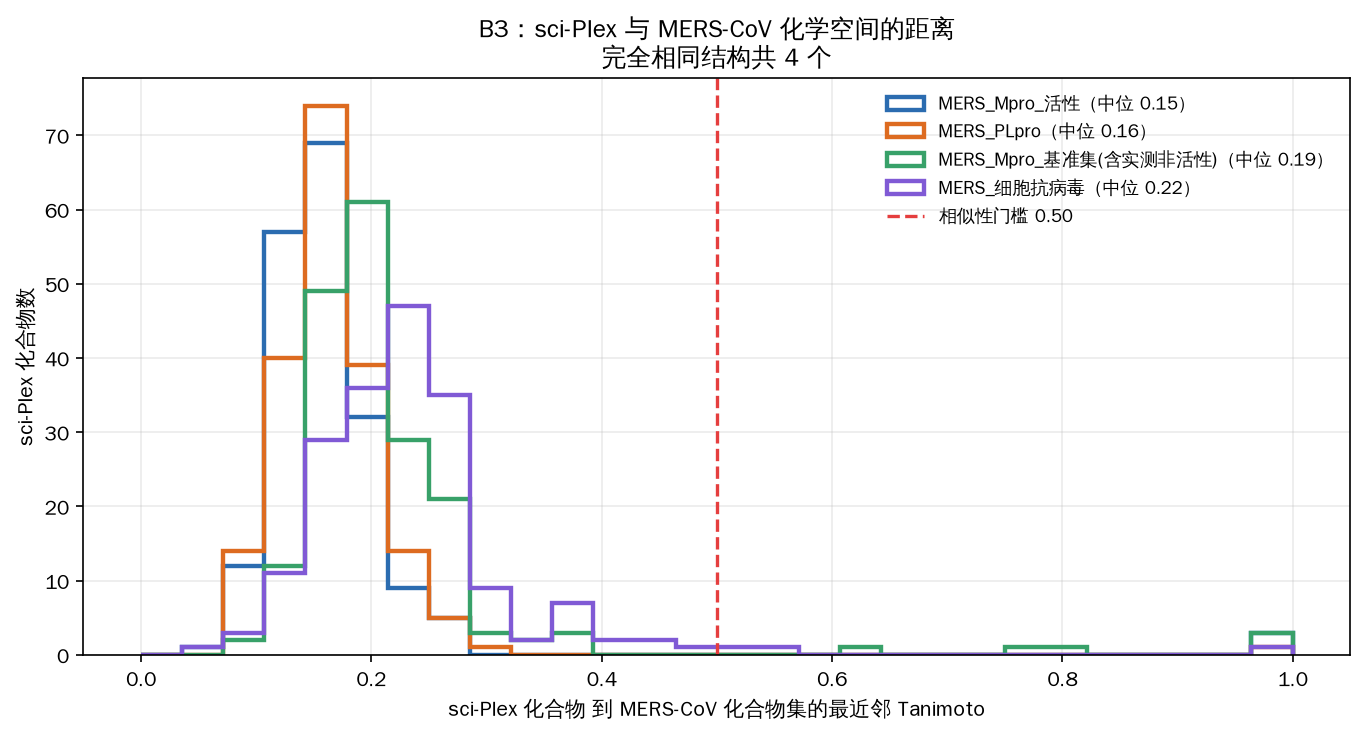
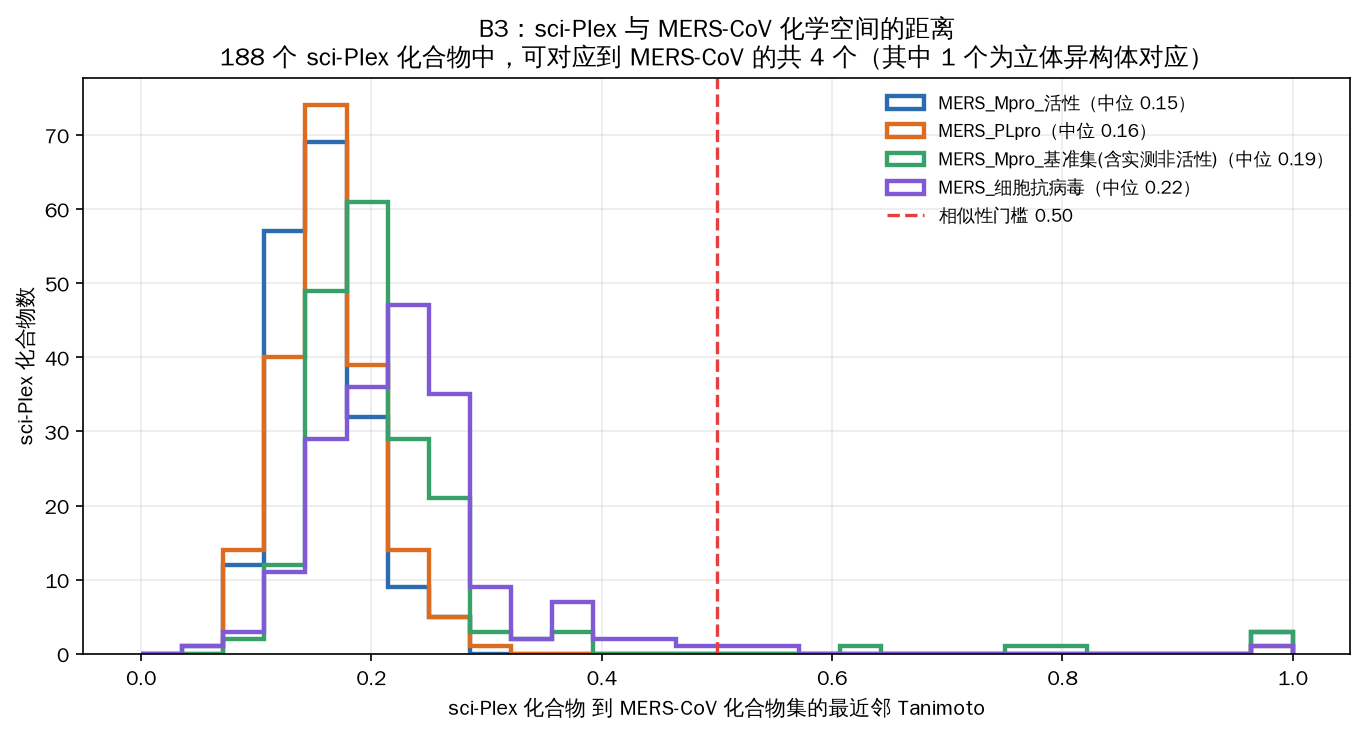
Add PLpro qualitative docking module and correct B3 figure caption
The B3 caption called all four matches identical structures when one is a
stereoisomer correspondence (racemic ofloxacin against the single enantiomer).

a8_plpro docks the nine PLpro compounds into apo 4RNA and correlates the
scores against measured potency, which is the qualitative comparison the plan
scopes for PLpro. It reports the bootstrap CI precisely so the n=9 width is
visible rather than hidden behind a point estimate.

Claude-Session: https://claude.ai/code/session_01DQ3cf55dSfUFYtrVQpn6B4

diff --git a/mers_pipeline/a8_plpro.py b/mers_pipeline/a8_plpro.py
@@ -1,0 +1,140 @@
+"""A8 —— PLpro 对接与文献 IC50 的定性对照。
+
+方案对 PLpro 的定位：「数据量过小（~20 IC50），不训练 ML 模型，仅做对接 +
+与文献 IC50 的定性对照」。本模块执行这一项。
+
+必须同时声明的两个前提
+----------------------
+1. **PLpro 没有 redock 验证**（见 A3）：4RF1/4RF0 是 PLpro–泛素复合物，
+   唯一非溶剂小分子 3CN 只有 4 个重原子；4RNA 是 apo。因此位姿与打分的
+   可信度显著低于 Mpro（而 Mpro 本身的 redock 也未通过 2 Å 门槛）。
+2. **n = 9**：任何相关系数的置信区间都会宽到几乎不含信息。本模块照样把
+   CI 算出来，正是为了让这一点显式可见，而不是只报一个点估计。
+
+产出：results/trackA/a8_plpro.json, figures/mers/a8_plpro.png
+"""
+from __future__ import annotations
+
+import json
+
+import numpy as np
+import pandas as pd
+from scipy import stats
+
+from .a5_docking import screen
+from .config import FIGS, RANDOM_SEED, RES_A, log, setup_cjk_fonts
+
+
+def spearman_ci(x, y, n_boot=10000, seed=RANDOM_SEED):
+    rng = np.random.default_rng(seed)
+    x, y = np.asarray(x, float), np.asarray(y, float)
+    pt = stats.spearmanr(x, y).statistic
+    vals = []
+    for _ in range(n_boot):
+        i = rng.integers(0, len(x), len(x))
+        if len(np.unique(x[i])) < 3 or len(np.unique(y[i])) < 3:
+            continue
+        v = stats.spearmanr(x[i], y[i]).statistic
+        if np.isfinite(v):
+            vals.append(v)
+    return float(pt), float(np.percentile(vals, 2.5)), float(np.percentile(vals, 97.5))
+
+
+def main(exhaustiveness: int = 16) -> dict:
+    d = pd.read_csv(RES_A / "mers_plpro_ic50.csv")
+    log(f"PLpro 化合物 {len(d)} 个（IC50/Kd），对接到 4RNA (apo)")
+
+    dk = screen(d, "PLPRO_4RNA", exhaustiveness)
+    dk.to_csv(RES_A / "docking_scores_plpro_4rna.csv", index=False)
+
+    ok = dk[dk["best_affinity"].notna()].copy()
+    log(f"成功对接 {len(ok)}/{len(dk)}")
+    if len(ok) < 4:
+        out = {"error": f"成功对接的化合物只有 {len(ok)} 个，无法做对照"}
+        (RES_A / "a8_plpro.json").write_text(json.dumps(out, indent=2, ensure_ascii=False))
+        return out
+
+    # Vina 亲和力越负越好；pActivity 越大越好 -> 预期负相关
+    sp, lo, hi = spearman_ci(ok["best_affinity"], ok["pActivity"])
+    pe = stats.pearsonr(ok["best_affinity"], ok["pActivity"])
+    log(f"对接亲和力 vs 实测 pActivity: Spearman={sp:+.3f} 95%CI [{lo:+.3f}, {hi:+.3f}]")
+    log(f"  Pearson={pe.statistic:+.3f} p={pe.pvalue:.3f}")
+    log(f"  亲和力范围 {ok['best_affinity'].min():.2f} 到 {ok['best_affinity'].max():.2f} kcal/mol"
+        f"（跨度仅 {ok['best_affinity'].max()-ok['best_affinity'].min():.2f}）")
+    log(f"  实测 pActivity 范围 {ok['pActivity'].min():.2f} 到 {ok['pActivity'].max():.2f}")
+
+    out = {
+        "receptor": "PLPRO_4RNA (4RNA, 1.79 Å, apo)",
+        "n_compounds": int(len(ok)),
+        "docking_affinity_kcal_mol": {
+            "min": round(float(ok["best_affinity"].min()), 2),
+            "max": round(float(ok["best_affinity"].max()), 2),
+            "median": round(float(ok["best_affinity"].median()), 2),
+            "span": round(float(ok["best_affinity"].max() - ok["best_affinity"].min()), 2),
+        },
+        "measured_pActivity": {
+            "min": round(float(ok["pActivity"].min()), 2),
+            "max": round(float(ok["pActivity"].max()), 2),
+            "span": round(float(ok["pActivity"].max() - ok["pActivity"].min()), 2),
+        },
+        "docking_vs_measured": {
+            "spearman": round(sp, 3), "spearman_ci95": [round(lo, 3), round(hi, 3)],
+            "pearson": round(float(pe.statistic), 3), "pearson_p": round(float(pe.pvalue), 4),
+            "expected_sign": "负（亲和力越负 = 结合越强 = pActivity 越大）",
+        },
+        "per_compound": ok[["molecule_chembl_id", "pActivity", "value_nM",
+                            "best_affinity", "standard_type"]]
+                        .round(3).to_dict("records"),
+        "caveats": [
+            "PLpro 没有 redock 验证（4RF1/4RF0 为 PLpro–泛素复合物，3CN 仅 4 个重原子；"
+            "4RNA 为 apo），位姿与打分可信度显著低于 Mpro。",
+            f"n={len(ok)}，Spearman 的 95% CI 宽度为 {hi-lo:.2f} —— 这个区间几乎覆盖了"
+            f"相关系数的全部可能取值，因此该点估计不构成任何证据。",
+            "对接亲和力的动态范围本身很窄，而 Vina 打分误差约 2–3 kcal/mol，"
+            "二者同量级时打分无法区分化合物。",
+            "受体为 apo 结构，未建模配体诱导的 BL2 环构象变化。",
+        ],
+        "verdict": (
+            f"对接分数与实测效力的 Spearman = {sp:+.3f}，95% CI [{lo:+.3f}, {hi:+.3f}]。"
+            f"区间跨过 0 且几乎覆盖全域，**无法据此判断对接是否捕捉到了 PLpro 的构效关系**。"
+            f"这与方案对 PLpro 的预期一致（数据量过小、富集统计功效弱），"
+            f"结果按定性/探索性呈现。"
+        ),
+    }
+    (RES_A / "a8_plpro.json").write_text(json.dumps(out, indent=2, ensure_ascii=False))
+    _plot(ok, sp, lo, hi)
+    log(f"A8 完成 -> {RES_A/'a8_plpro.json'}")
+    log(out["verdict"])
+    return out
+
+
+def _plot(ok: pd.DataFrame, sp: float, lo: float, hi: float) -> None:
+    setup_cjk_fonts()
+    import matplotlib.pyplot as plt
+
+    fig, ax = plt.subplots(figsize=(7.2, 5.2))
+    ax.scatter(ok["best_affinity"], ok["pActivity"], s=95, c="#805ad5",
+               edgecolor="white", lw=1.3, zorder=3)
+    for _, r in ok.iterrows():
+        ax.annotate(str(r["molecule_chembl_id"]).replace("CHEMBL", ""),
+                    (r["best_affinity"], r["pActivity"]),
+                    fontsize=7, xytext=(4, 4), textcoords="offset points", color="#4a5568")
+    ax.set_xlabel("Vina 对接亲和力 (kcal/mol，越负越强)")
+    ax.set_ylabel("实测 pIC50 / pKd (MERS-CoV PLpro)")
+    ax.set_title(f"A8：PLpro 对接 vs 文献实测效力（n={len(ok)}）\n"
+                 f"Spearman = {sp:+.2f}  95%CI [{lo:+.2f}, {hi:+.2f}] —— 区间几乎覆盖全域",
+                 fontsize=11)
+    ax.grid(alpha=0.25)
+    fig.text(0.5, -0.02,
+             "受体 4RNA 为 apo 结构，无 redock 验证 —— 结果仅作定性/探索性呈现",
+             ha="center", fontsize=9, color="#c53030")
+    fig.tight_layout()
+    o = FIGS / "a8_plpro.png"
+    fig.savefig(o, dpi=150, bbox_inches="tight")
+    plt.close(fig)
+    log(f"图已保存 -> {o}")
+
+
+if __name__ == "__main__":
+    import sys
+    main(int(sys.argv[1]) if len(sys.argv) > 1 else 16)

diff --git a/mers_pipeline/b3_case_study.py b/mers_pipeline/b3_case_study.py
@@ -218,8 +218,11 @@ def _plot(rows: list, out: dict) -> None:
     ax.axvline(0.5, color="#e53e3e", ls="--", lw=1.6, label="相似性门槛 0.50")
     ax.set_xlabel("sci-Plex 化合物 到 MERS-CoV 化合物集的最近邻 Tanimoto")
     ax.set_ylabel("sci-Plex 化合物数")
+    n_exact = sum(v["n_exact_structural_overlap"] for v in out["overlaps"].values())
+    n_stereo = out["verdict"]["total_exact_overlaps"]
     ax.set_title(f"B3：sci-Plex 与 MERS-CoV 化学空间的距离\n"
-                 f"完全相同结构共 {out['verdict']['total_exact_overlaps']} 个")
+                 f"188 个 sci-Plex 化合物中，可对应到 MERS-CoV 的共 "
+                 f"{n_stereo} 个（其中 1 个为立体异构体对应）")
     ax.legend(frameon=False, fontsize=8.8)
     ax.grid(alpha=0.25)
     fig.tight_layout()
